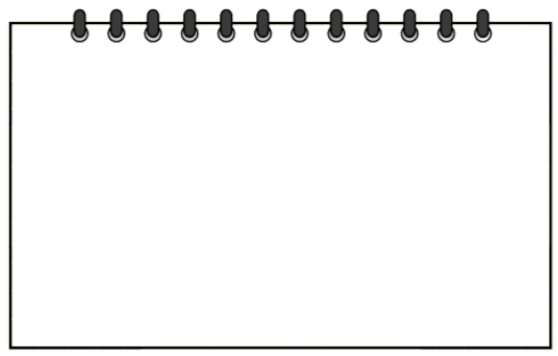
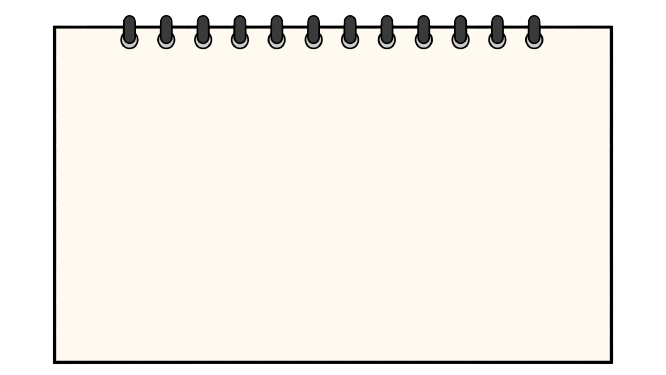
feat:develop에서 stash사용

Changed region(s): [[0.0, 0.0, 1.0, 0.9888]]

diff --git a/src/Page/Login.js b/src/Page/Login.js
@@ -1,11 +1,189 @@
 import React from 'react';
 
+<<<<<<< Updated upstream
 import sketchbook from '../Image/Sketchbook2.png';
 // import ID from '../Image/ID.png';
 // import PW from '../Image/PW.png';
 
 function Login() {
   return <div>hi</div>;
+=======
+import sketchbook from '../Image/sketchbook.png';
+import ID from '../Image/ID.png';
+import PW from '../Image/PW.png';
+
+const SketchbookImg = styled.img`
+  width: 90rem;
+  height: 50rem;
+`;
+
+const ImgWrap = styled.div`
+  position: relative;
+  text-align: center;
+`;
+
+const AllWrap = styled.div`
+  background-color: #fcedb0;
+  height: 100vh;
+  position: absolute; //absolute 추가(세로 중앙정렬)
+  width: 100%;
+  height: 100%;
+  align-items: center;
+  justify-content: center;
+  display: flex;
+  text-align: center;
+  margin: 0 auto; //세로 중앙정렬을 위한 margin 값
+`;
+
+const IdWrap = styled.div`
+  width: 635px;
+  height: 64px;
+  border-top-left-radius: 15px;
+  border-top-right-radius: 15px;
+  background: #fff;
+  border-width: 1px;
+  border-color: #000;
+  box-shadow: 0px 4px 4px 0 rgba(0, 0, 0, 0.25);
+  display: flex;
+  // 스캐치북 위에 올리기
+  position: absolute;
+  top: 50%;
+  left: 50%;
+  transform: translate(-50%, -50%);
+  z-index: 10;
+`;
+
+const IdImg = styled.img`
+  width: 2.5rem;
+  height: 2.5rem;
+  text-align: center;
+  display: flex;
+  margin: auto 1rem auto 1rem;
+`;
+
+const IdInput = styled.input`
+  //placeholder스타일
+  width: 36px;
+  height: 41px;
+  font-size: 25px;
+  font-weight: 500;
+  /////
+  padding-left: 0.5rem;
+  margin: auto 1rem auto 0rem;
+  width: 500px;
+  &:focus {
+    outline: none;
+  }
+`;
+
+const BoxWrap = styled.div`
+  position: relative;
+`;
+
+const PwWrap = styled.div`
+  width: 635px;
+  height: 64px;
+  border-bottom-left-radius: 15px;
+  border-bottom-right-radius: 15px;
+  background: #fff;
+  border-width: 1px;
+  border-color: #000;
+  box-shadow: 0px 4px 4px 0 rgba(0, 0, 0, 0.25);
+  display: flex;
+  // 스캐치북 위에 올리기
+  position: absolute;
+  top: 60%;
+  left: 50%;
+  transform: translate(-50%, -50%);
+  z-index: 10;
+`;
+
+const PwImg = styled.img`
+  width: 2.5rem;
+  height: 2.5rem;
+  text-align: center;
+  display: flex;
+  margin: auto 1rem auto 1rem;
+`;
+
+const PwInput = styled.input`
+  padding-left: 0.5rem;
+  margin-left: 1rem;
+  width: 500px;
+  &:focus {
+    outline: none;
+  }
+  //placeholder스타일
+  height: 41px;
+  font-size: 25px;
+  font-weight: 500;
+  margin: auto 1rem auto 0rem;
+  /////
+`;
+
+const LoginText = styled.div`
+  position: absolute;
+  top: 35%;
+  left: 50%;
+  transform: translate(-50%, -50%);
+  z-index: 10;
+  width: 141px;
+  height: 63px;
+  font-size: 50px;
+  font-weight: 700;
+`;
+
+const LoginBtn = styled.button`
+  width: 283px;
+  height: 56px;
+  border-radius: 13px;
+  background: #3a3a3a;
+  font-size: 28px;
+  font-weight: 700;
+  // 스캐치북 위에 올리기
+  position: absolute;
+  top: 73%;
+  left: 50%;
+  transform: translate(-50%, -50%);
+  z-index: 10;
+  color: #fff;
+`;
+const SignUpBtn = styled.button`
+  // 스캐치북 위에 올리기
+  position: absolute;
+  top: 80%;
+  left: 50%;
+  transform: translate(-50%, -50%);
+  z-index: 10;
+  //글씨 스타일
+  width: 71px;
+  height: 28px;
+  font-size: 18px;
+  font-weight: 700;
+`;
+
+function Login() {
+  return (
+    <AllWrap>
+      <BoxWrap>
+        <LoginText>로그인</LoginText>
+        <ImgWrap>
+          <SketchbookImg src={sketchbook} />
+        </ImgWrap>
+        <IdWrap>
+          <IdImg src={ID} alt="" />
+          <IdInput type="id" placeholder="ID" />
+        </IdWrap>
+        <PwWrap>
+          <PwImg src={PW} alt="" />
+          <PwInput type="password" placeholder="PW" />
+        </PwWrap>
+        <LoginBtn>로그인</LoginBtn>
+        <SignUpBtn>회원가입</SignUpBtn>
+      </BoxWrap>
+    </AllWrap>
+  );
+>>>>>>> Stashed changes
 }
 
 export default Login;
